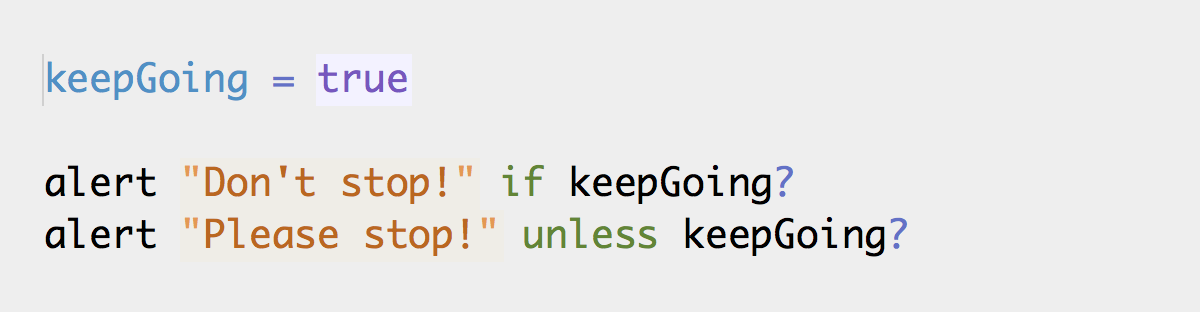
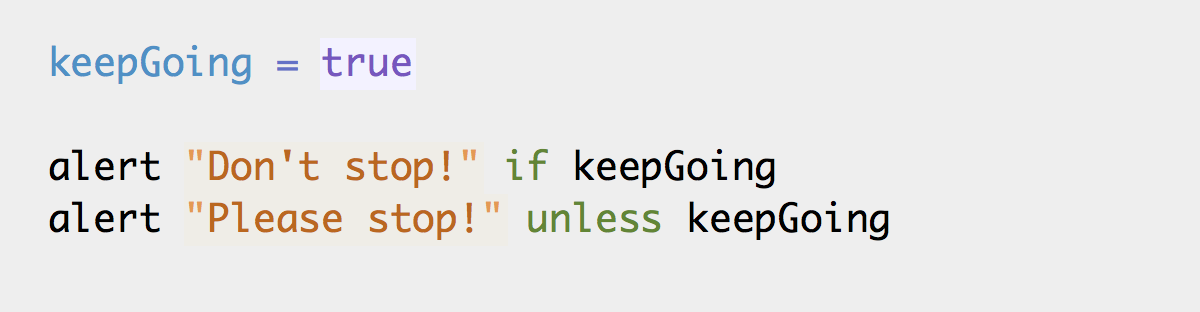
Remove ? from suffixable operators

Changed region(s): [[0.0308, 0.4615, 0.7708, 0.8365], [0.0308, 0.1442, 0.3392, 0.3173]]

diff --git a/README.md b/README.md
@@ -69,8 +69,6 @@ If you want to assign variables to the global scope in CoffeeScript, you will ha
 
 CoffeeScript lets you suffix `if` and `unless` operators so that logical expressions can be read much like a regular sentence.
 
-TODO: Ta bort spørsmålstegn:
-
 ![Suffixable operators](https://github.com/eiriklied/coffee_script_article/blob/master/images/04_suffixable.coffee.png?raw=true)
 
 ### Comprehensions
